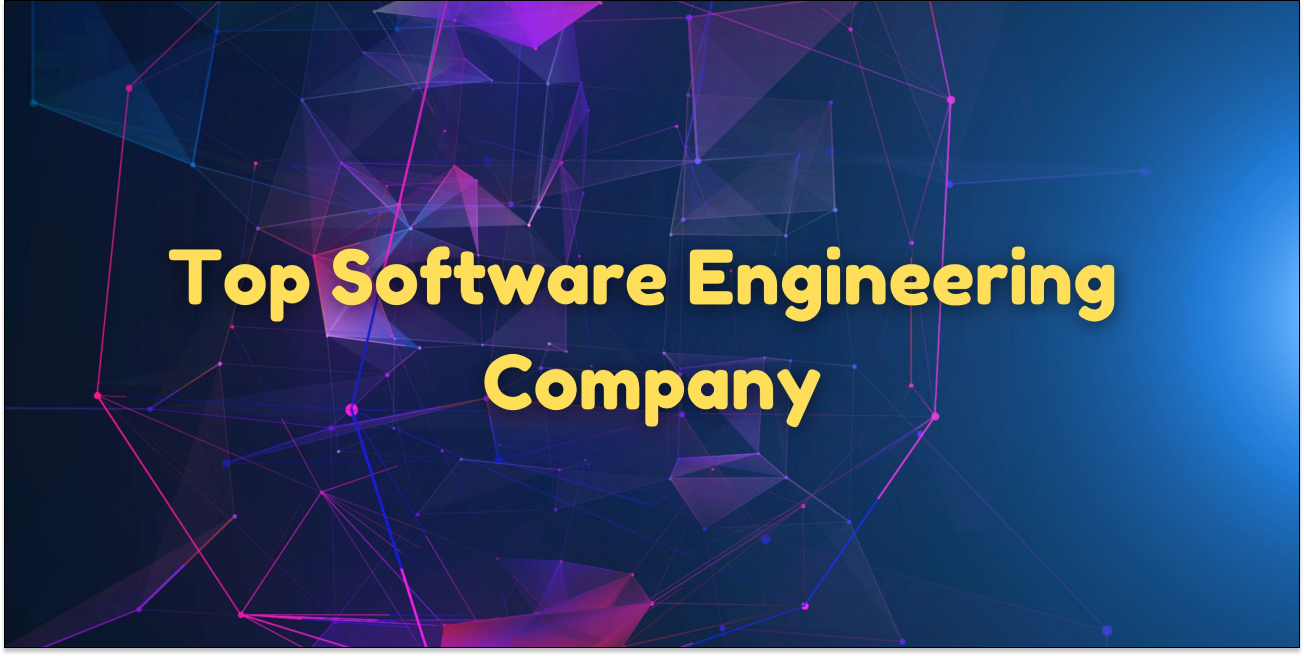
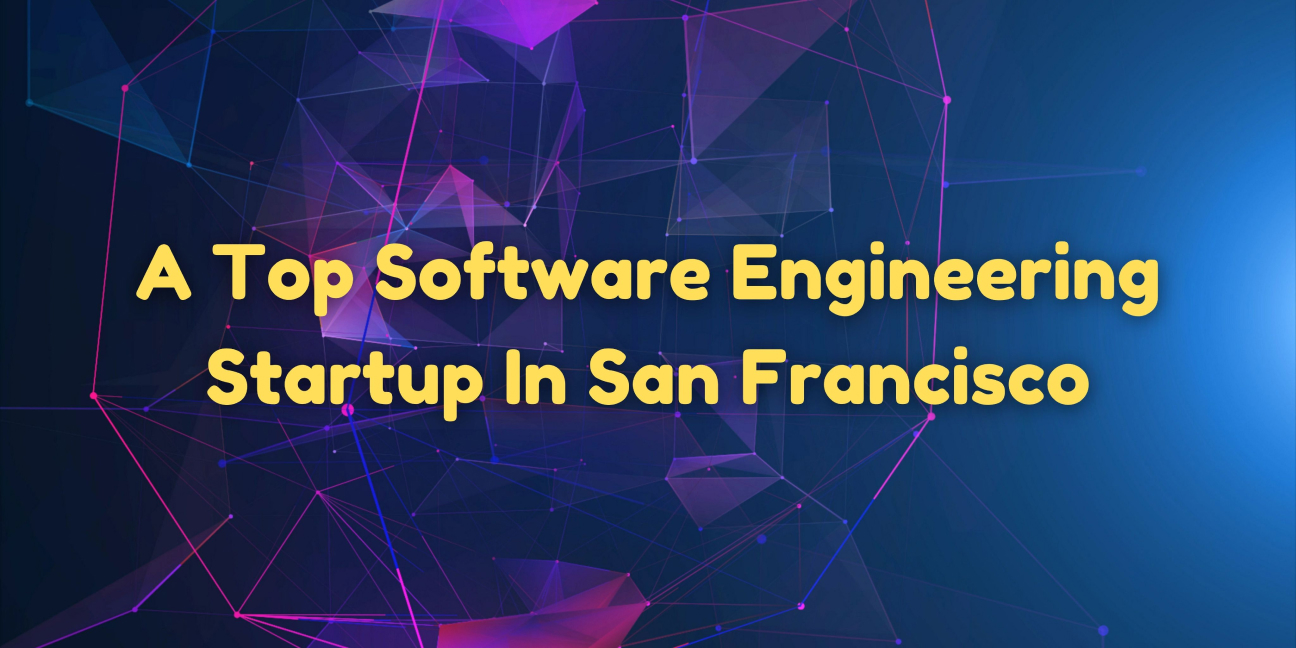
updated features and title

diff --git a/content/post/top-company/index.md b/content/post/top-company/index.md
@@ -1,5 +1,5 @@
 ---
-title: AppsCode Nominated As A Top Software Engineering Company In San Francisco
+title: A Top Software Engineering Startup In San Francisco
 date: 2021-04-27
 weight: 21
 authors:
@@ -18,16 +18,15 @@ tags:
   - kubedb
 ---
 
-
-### AppsCode was nominated as a top software engineering company in San Francisco by the Startup Pill.
-
-> The original post can be found [HERE](https://startupill.com/these-are-the-top-software-engineering-startups-in-san-francisco-2021/)
+We are very excited to inform you that AppsCode has been nominated as a 
+top software engineering company in San Francisco by the Startup Pill.
+The original post can be found [HERE](https://startupill.com/these-are-the-top-software-engineering-startups-in-san-francisco-2021/).
 
 According to Startup Pill, AppsCode had exceptional performance in `Innovation`.
 
 ## Get to Know AppsCode
 
-AppsCode is a global leader in Enterprise-grade Kubernetes-native Data Platforms. AppsCode has released KubeDB Enterprise Edition, a production-grade cloud-native database management solution for Kubernetes. AppsCode is building a universal cloud native data platform for the age of Kubernetes. AppsCode was established in 2016 by Tamal Saha, a former Google engineer. AppsCode develops a number of popular products for Kubernetes, namely KubeDB, Stash, KubeVault, Kubeform, Voyager. Learn more about [AppsCode here](https://appscode.com).
+AppsCode is a global leader in Enterprise-grade Kubernetes-native Data Platforms. AppsCode has released KubeDB, a production-grade cloud-native database management solution for Kubernetes. AppsCode is building a universal cloud native data platform for the age of Kubernetes. AppsCode was established in 2016 by Tamal Saha, a former Google engineer. AppsCode develops a number of popular products for Kubernetes, namely KubeDB, Stash, KubeVault, Kubeform, Voyager. Learn more about [AppsCode here](https://appscode.com).
 
 ## The Problem At Hand
 
@@ -36,36 +35,37 @@ Kubernetes has emerged as the de-facto way to deploy modern containerized apps o
 ## The Solution That AppsCode Provides
 
 KubeDB provides you with many familiar database engines to choose from, including PostgreSQL, MariaDB, MySQL, MongoDB, Elasticsearch, Redis and Memcached. And the list is growing. KubeDB’s native integration with Kubernetes makes a unique solution compared to competitive solutions from cloud providers and database vendors. It is also very easy to use and AppsCode support is very responsive. 
+
 ## Products Of AppsCode
-The products of AppsCode are KubeDB, Stash, KubeVault, Kubeform, Voyager. Let's have a look at the features these products provides.
+The products of AppsCode are KubeDB, Stash, KubeVault, Kubeform, Voyager. Let's have a look at the features of these products.
 
 ### KubeDB
 KubeDB by AppsCode simplifies and automates routine database tasks such as provisioning, patching, backup, recovery, failure detection, and repair for various popular databases on private and public clouds. 
 ##### Features: 
 
- - Lower administrative burden 
- - Native Kubernetes Support
- - Availability and durability
- - Performance
+ - Backup/Recovery
+ - Security Patch Upgrades
+ - Auto scaling CPU/Memory/Storage/Replicas
+ - Hashicorp Vault Integration
  - Cost-effectiveness
- - Security
- - Manageability
+ - tls- management cert manager
+
 
 Learn more about KubeDB [HERE](https://kubedb.com).
 ### Stash
 Stash by AppsCode is a cloud native data backup and recovery solution for Kubernetes workloads, volumes and databases.
 ##### Features: 
- - Declarative API
- - Backup Database
- - Backup Kubernetes Volumes
- - Cluster Snapshot
- - Volume Snapshot
- - Multiple Platforms Support
- - Multiple Architectures Support
+ - Backup & Restore Workload Data & Stand-alone PVC
+ - Schedule Backup, Instant Backup
+ - Cloud & On-Prem Storage as Backend
+ - Backup & Restore Databases
+ - Extensibility and Customizability
+ - CLI
+ - Prometheus Metrics
 
 Learn more about Stash [HERE](https://stash.run/).
 
-## Voyager
+### Voyager
 Secure HAProxy Ingress Controller for Kubernetes.
 ##### Features: 
  - Comes with built-in support for Prometheus
@@ -76,7 +76,7 @@ Secure HAProxy Ingress Controller for Kubernetes.
  - Supports HTTP and TCP load balancing.
 
 Learn more about Voyager [HERE](https://voyagermesh.com/).
-## KubeVault
+### KubeVault
 Tools for running HashiCorp Vault on Kubernetes.
 ##### Features: 
  - Automatic Initialization & Unsealing
@@ -87,7 +87,7 @@ Tools for running HashiCorp Vault on Kubernetes.
  - GCP Secret Engine
  
  Learn more about KubeVault [HERE](https://kubevault.com/)
-## Kubeform
+### Kubeform
 Provision cloud resources using <strong>Kubernetes</strong> CRDs & <strong>Terraform</strong>.
 ##### Features: 
  - Native Kubernetes Support
